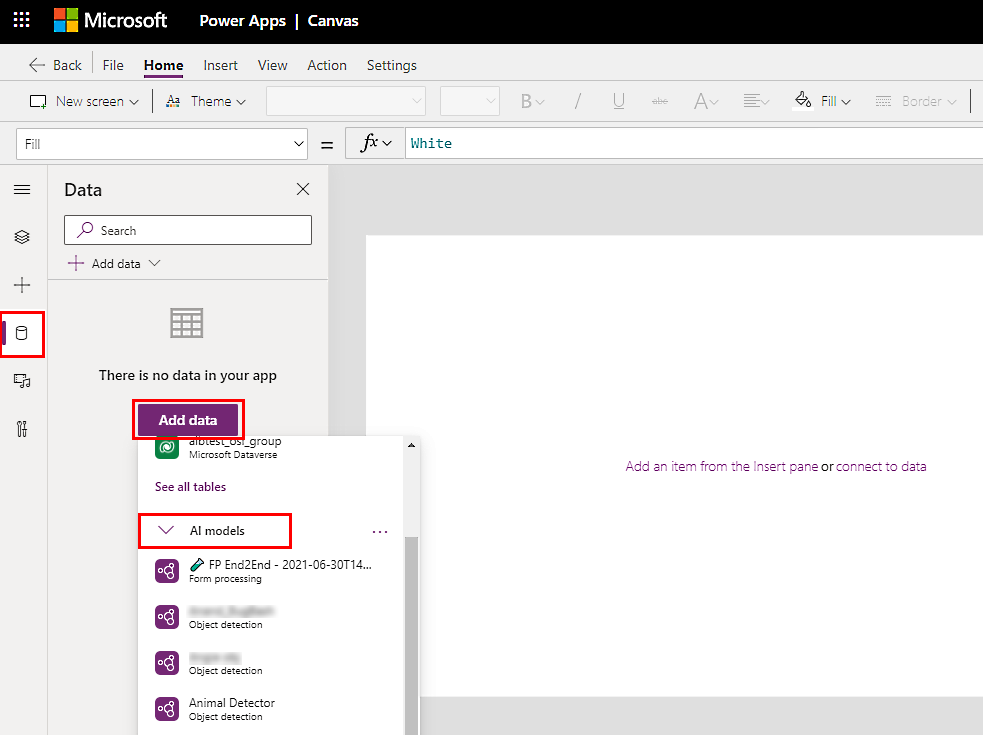
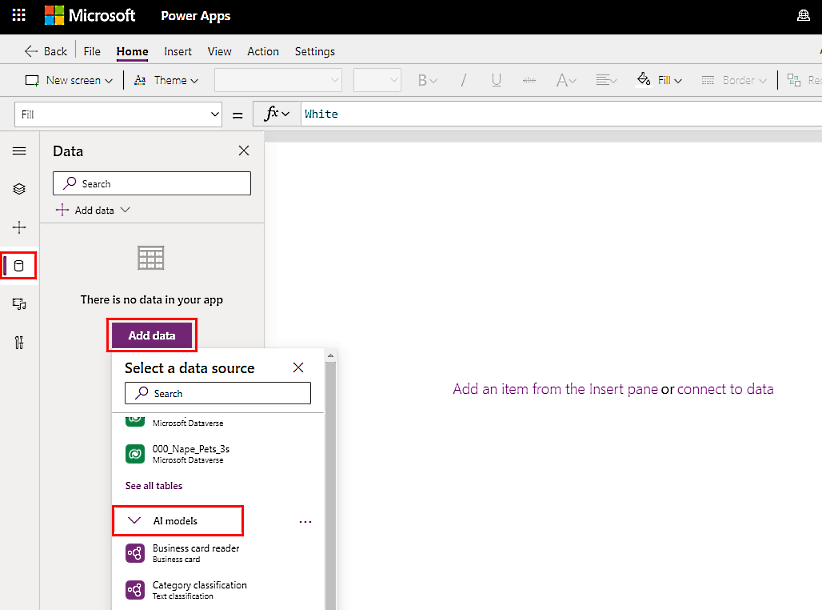
pre-final edits

diff --git a/ai-builder-docs/powerfx-in-powerapps.md b/ai-builder-docs/powerfx-in-powerapps.md
@@ -53,12 +53,10 @@ The Power Fx feature is enabled by default in Microsoft Power Apps. If it's been
 
 1. Select **Upcoming features** > **Preview**.
 
-1. Enable all features by selecting **On**.
-
-    Make sure you scroll to the bottom to see all features. **All data models as sources** is the last feature and should be turned **On**.
+1. Enable the **All data models as sources** feature by scrolling to the end  and selecting **On**.
 
     > [!div class="mx-imgBorder"]
-    > ![Screenshot of Upcoming features enabled.](media/powerfx-in-powerapps/settings.png "Upcoming features enabled")
+    > ![Screenshot of Upcoming features enabled.](media/powerfx-in-powerapps/data-sources.png "Upcoming features enabled")
 
 ## Select a model in canvas apps
 
@@ -66,7 +64,7 @@ Comsuming an AI model with Power Fx is similar to using a canvas app in that you
 
 For a list of AI Builder models you can consume, go to [AI models and business scenarios](model-types.md). You can also consume models built in Microsoft Azure Machine Learning with the [bring your own model](byo-model.md) feature.
 
-If you're in a production environment, there are alternative methods for using the formula bar that will allow you to set behaviors of a control. For details, go to [Use AI models in the formula bar](use-in-powerapps-overview.md#use-ai-models-in-the-formula-bar).
+For alternative methods of using the formula to set behaviors of a control, go to [Use AI models in the formula bar](use-in-powerapps-overview.md#use-ai-models-in-the-formula-bar).
 
 1. Create an app by following steps 1 through 4 in [Enable the Power Fx feature](#enable-the-power-fx-feature).
 
@@ -77,13 +75,13 @@ If you're in a production environment, there are alternative methods for using t
 
 1. Select one or more models to add.
 
-    If you don’t see your model in this list, then you might not have permissions to use it in Power Apps. Contact your administrator to resolve this.
+    If you don’t see your model in this list, you might not have permissions to use it in Power Apps. Contact your administrator to resolve this.
 
 ## Use a model in controls
 
 The canvas app in this language detection model example shows you the country code for the language of the text you type.
 
-1. Create a canvas app by following steps 1 and 2 in [Screenshot of ](#select-a-model-in-canvas-apps).
+1. Create a canvas app by following steps 1 and 2 in [Select a model in canvas apps](#select-a-model-in-canvas-apps) (the previous procedure).
 
 1. In the **AI models list**, select a language detection model.
 
@@ -95,7 +93,7 @@ The canvas app in this language detection model example shows you the country co
 
 1. Select the **Text Input** field and enter the following Power Fx formula:
 
-    ````
+    ````powerapps-dot
     First('Language detection'.Predict(TextInput1.Text).results).language 
     ````
 
@@ -123,16 +121,16 @@ In this preview, every model is invoked using the *predict* verb. For example, a
 
 |Input  |Output  |
 |---------|---------|
-|'Language detection'.Predict("Bonjour").results     | *(Caio will follow up,)*        |
+|`'Language detection'.Predict("Bonjour").results`     | *(Caio will follow up.)*        |
 
 To return the most likely language country code:
 
 |Input  |Output  |
 |---------|---------|
-|First('Language detection'.Predict("Bonjour").results).language  | "fr" (country code for French)       |
+|`First('Language detection'.Predict("Bonjour").results).language`  | "fr" (country code for French)       |
 
 To save time and resources, save the result of a model call so that you can use it in multiple places. You can save an output into a global variable (for example,  *lang*). If you do this, you can use *lang* elsewhere in your app, to show, for example, the national flag associated with the language.
 
 |Input  |Output  |
 |---------|---------|
-|Set(lang, First('Language detection'.Predict(TextInput1.OnChange).results).language)       | (*Caio - Please verify the code in the **Input** column and add an output.*)
+|`Set(lang, First('Language detection'.Predict(TextInput1.OnChange).results).language)`       | (*Caio - Please verify the code in the **Input** column and add an output.*)

diff --git a/ai-builder-docs/use-in-powerapps-overview.md b/ai-builder-docs/use-in-powerapps-overview.md
@@ -17,7 +17,7 @@ You can use AI Builder in Microsoft Power Apps in one of two ways, depending on 
 - Use AI models in the formula bar, or
 - Add AI Builder components
 
-You can now use [Power Fx](#use-power-fx-to-consume-ai-models-in-power-apps-preview) expressions to consume AI Builder models in Power Apps. This feature is available in preview, so you can try it out in a non-production environment.
+You can now use [Power Fx](#use-power-fx-to-consume-ai-models-in-power-apps-preview) expressions to consume AI Builder models in Power Apps. This feature is available in preview.
 
 ## Use AI models in the formula bar
 
@@ -57,7 +57,7 @@ The AI Builder components for [canvas apps](/powerapps/maker/canvas-apps/getting
 
 ## Use Power Fx to consume AI models in Power Apps (preview)
 
-The easiest, most versatile way you can build expressions for AI Builder models in Power Apps is with [Power Fx](powerfx-in-powerapps.md). This is the low-code expression language that works much like Excel. Power Fx in Power Apps supports all prebuilt and custom AI models. It also supports models built on the Microsoft Azure Machine Learning platform.
+The easiest, most versatile way you can build expressions for AI Builder models in Power Apps is with [Power Fx](powerfx-in-powerapps.md). This is the low-code formula language that works much like Excel. Power Fx in Power Apps supports all prebuilt and custom AI models. It also supports models built on the Microsoft Azure Machine Learning platform.
 
 To learn more, go to [Use Power Fx in AI Builder models in Power Apps (preview)](powerfx-in-powerapps.md).
 
